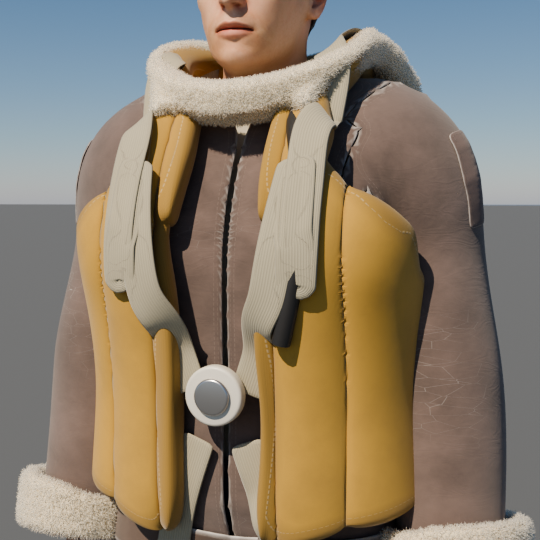
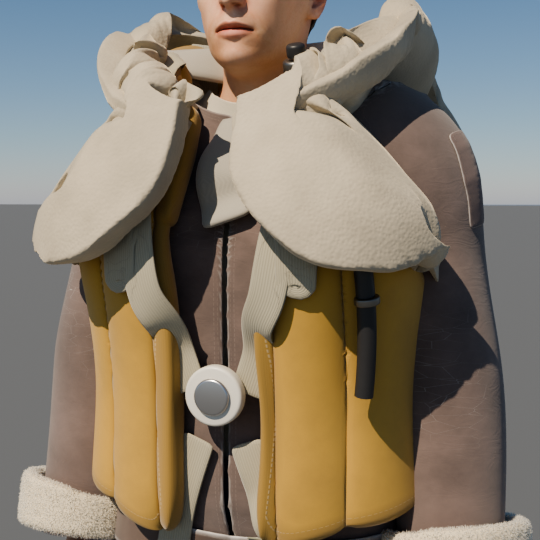
Lapel collar from an exact outline, shearling pile material, scarf, hose clamps, cartridge holder, map case (run 009 steps 6-7)
Fixes a latent triangulation bug: flat pieces kept triangles from the convex hull of
their outline, which bridged the collar's V opening.

Claude-Session: https://claude.ai/code/session_01CDvtC8YtMDTCkqUDhevinG

diff --git a/recipes/garments.py b/recipes/garments.py
@@ -287,7 +287,8 @@ def leg_patch(name, s=(0.18, 0.85), theta=(-35.0, 50.0), side="both", ease=0.012
     out_v, _, out_f, orig, _, _ = geo.delaunay_2d_cdt([tuple(q) for q in points],
                                                      [(i, (i + 1) % n) for i in range(n)], [], 1, 1e-7)
     out_v = np.array([tuple(v) for v in out_v])
-    faces = [tuple(f) for f in out_f if len(f) == 3]
+    faces = [tuple(f) for f in out_f if len(f) == 3
+             and _inside_polygon(out_v[list(f)].mean(axis=0)[None, :], outline)[0]]
     pieces = []
     for side_left in {"L": (True,), "R": (False,), "both": (True, False)}[side]:
         tri, weight = _wrap(out_v, side_left, limb)
@@ -373,6 +374,123 @@ def band(name="cuff", limb="arm", start=1.72, end=1.97, ease=0.04, thickness=0.0
     return _garment(name, TIGHTS, field, ease, thickness,
                     material or materials.plain("Shearling", (0.62, 0.55, 0.42), 0.95),
                     skin_margin=None, smooth_shell=smooth_shell, cut=cut)
+
+
+TORSO_RADIUS = 0.15   # metres per radian round the torso (about the upper-chest radius)
+TORSO_HEIGHT = 0.55   # metres per unit of torso height h (hip joint to base of neck)
+
+
+def _torso_chart():
+    """Torso and neck of the tights shell as flat triangles: x = angle round the body from
+    the centre back (so the seam of the chart falls at the centre front), y = height."""
+    if "torso" in _LEG_CHART:
+        return _LEG_CHART["torso"]
+    c = _body_coordinates()
+    vb = c["vb"]
+    bones = rig.read_rig("default")
+    neck = np.array(rig._position(bones["neck01"]["head"], vb))
+    psi = np.degrees(np.arctan2(vb[:, 0], vb[:, 1] - neck[1]))          # 0 back, +-180 front
+    flat = np.stack([np.radians(psi) * TORSO_RADIUS, c["h"] * TORSO_HEIGHT], axis=1)
+    lo, hi = TIGHTS
+    tris = []
+    for f in human.base_mesh()[2]:
+        if not all(lo <= v <= hi and c["part"][v] in ("torso", "neck") for v in f):
+            continue
+        for t in ((f[0], f[1], f[2]), (f[0], f[2], f[3])) if len(f) == 4 else ((f[0], f[1], f[2]),):
+            if np.ptp(psi[list(t)]) < 180.0:
+                tris.append(t)
+    _LEG_CHART["torso"] = (flat, np.array(tris), psi)
+    return _LEG_CHART["torso"]
+
+
+def _smooth_outline(points, rounds=3):
+    """Round off the corners of a closed outline (Chaikin corner cutting)."""
+    pts = np.asarray(points, dtype=float)
+    for _ in range(rounds):
+        nxt = np.roll(pts, -1, axis=0)
+        pts = np.stack([0.75 * pts + 0.25 * nxt, 0.25 * pts + 0.75 * nxt], axis=1).reshape(-1, 2)
+    return pts
+
+
+def _resample(outline, step):
+    out = []
+    for p_, q in zip(outline, np.roll(outline, -1, axis=0)):
+        n = max(1, int(np.ceil(np.linalg.norm(q - p_) / step)))
+        out.extend(p_ + (q - p_) * k / n for k in range(n))
+    return np.array(out)
+
+
+def torso_patch(name, outline, ease, thickness, material, smooth_shell=0, step=0.009):
+    """A flat piece drawn as an exact outline on the torso and wrapped onto it.
+    outline: closed list of (angle from the centre back in degrees, torso height h)."""
+    from mathutils import geometry as geo
+    flat, tris, _ = _torso_chart()
+    pts = np.array([(np.radians(a_) * TORSO_RADIUS, h_ * TORSO_HEIGHT) for a_, h_ in outline])
+    pts = _resample(_smooth_outline(pts), step)
+    lo, hi = pts.min(axis=0), pts.max(axis=0)
+    gx = np.arange(lo[0] + step, hi[0], step)
+    gy = np.arange(lo[1] + step, hi[1], step * 0.866)
+    grid = np.array([(x + (step * 0.5 if j % 2 else 0.0), y) for j, y in enumerate(gy) for x in gx])
+    grid = grid[_inside_polygon(grid, pts)] if len(grid) else grid
+    grid = grid[[np.min(np.linalg.norm(pts - g, axis=1)) > step * 0.55 for g in grid]] if len(grid) else grid
+    allp = np.concatenate([pts, grid])
+    n = len(pts)
+    out_v, _, out_f, _, _, _ = geo.delaunay_2d_cdt([tuple(q) for q in allp],
+                                                  [(i, (i + 1) % n) for i in range(n)], [], 1, 1e-7)
+    out_v = np.array([tuple(v) for v in out_v])
+    # Keep only triangles inside the outline. The triangulation also fills the outline's
+    # convex hull; for the collar that bridged the V opening (a "bib") and, once smoothed,
+    # blew up into large flat planes.
+    faces = [tuple(f) for f in out_f if len(f) == 3
+             and _inside_polygon(out_v[list(f)].mean(axis=0)[None, :], pts)[0]]
+    # wrap: containing chart triangle, or the nearest one
+    A, B, C = flat[tris[:, 0]], flat[tris[:, 1]], flat[tris[:, 2]]
+    v0, v1 = B - A, C - A
+    den = v0[:, 0] * v1[:, 1] - v1[:, 0] * v0[:, 1]
+    ok = np.abs(den) > 1e-10
+    tris, A, v0, v1, den = tris[ok], A[ok], v0[ok], v1[ok], den[ok]
+    tri_out, w_out = [], []
+    for p_ in out_v:
+        d = p_ - A
+        u = (d[:, 0] * v1[:, 1] - v1[:, 0] * d[:, 1]) / den
+        v = (v0[:, 0] * d[:, 1] - d[:, 0] * v0[:, 1]) / den
+        best = int(np.argmax(np.minimum.reduce([u, v, 1.0 - u - v])))
+        w = np.clip(np.array([1.0 - u[best] - v[best], u[best], v[best]]), 0.0, None)
+        tri_out.append(tris[best]); w_out.append(w / w.sum())
+    # outward normals: the chart runs right-handed when seen from outside on the back
+    faces = [tuple(reversed(f)) for f in faces]
+    spec = _garment(name, TIGHTS, None, ease, thickness, material, skin_margin=None, smooth_shell=smooth_shell)
+    spec["explicit"] = {"faces": faces, "tri": np.array(tri_out), "weight": np.array(w_out),
+                        "uv": out_v / materials.METRES_PER_UV}
+    return spec
+
+
+def lapel_collar(name="collar", tips=0.64, wings=0.80, back=0.86, neckline=1.02, throat=0.94,
+                 tip_angle=150.0, ease=0.105, roll=0.02, thickness=0.036, material=None,
+                 smooth_shell=0, soften=8):
+    """A large turned-down shearling collar: a roll behind the neck, wings lying over the
+    shoulders, and two rounded lapel points on the chest with a V opening between them.
+
+    Heights are torso heights (0 hip joint, 1 base of neck): `tips` how far down the lapel
+    points reach, `wings` the lower edge over the shoulders, `back` at the centre back,
+    `neckline` the top edge, `throat` where the two lapels meet at the front. tip_angle:
+    how far round from the centre back the lapel points sit (180 is the centre front).
+    ease: height of the outer edge above the skin (must clear a vest). roll: extra height
+    toward the neck, so the collar curls up there.
+    (First collar: a band of equal depth, read as a fur tube. Second: cut from the body
+    mesh with no V opening, gave a ragged bib.)"""
+    right = [(0.0, back), (50.0, back - 0.02), (95.0, wings), (125.0, wings - 0.05),
+             (tip_angle, tips), (tip_angle + 12.0, tips + 0.04), (172.0, throat), (178.0, neckline - 0.03),
+             (150.0, neckline), (90.0, neckline + 0.01), (0.0, neckline + 0.01)]
+    outline = right[:-1] + [(-a_, h_) for a_, h_ in reversed(right[1:-1])]
+    c = _body_coordinates()
+    lift = ease + roll * np.clip((c["h"] - (neckline - 0.16)) / 0.14, 0.0, 1.0)
+    spec = torso_patch(name, outline, lift, thickness, material or materials.shearling(),
+                       smooth_shell=smooth_shell)
+    # Relax the crumpling where the neck shell bends sharply, with the edge held still.
+    # (Plain smoothing, tried first, pulled the edge in unevenly and left it ragged.)
+    spec["relax"] = soften
+    return spec
 
 
 def collar(name="collar", low=0.88, high=1.06, ease=0.022, thickness=0.02, material=None):
@@ -723,6 +841,23 @@ def build(scene, base_verts, garment, name, parent=None):
         # vertex get the same push outward.
         n = _vertex_normals_welded(verts, faces)
     verts = verts + ease * n
+    if garment.get("relax"):
+        # Smooth the piece with its outline held still. Done here rather than with
+        # Blender's Laplacian Smooth modifier, which blew this mesh apart into spikes.
+        edges = {(min(a, b), max(a, b)) for f in faces for a, b in zip(f, f[1:] + f[:1])}
+        count = {}
+        for f in faces:
+            for a, b in zip(f, f[1:] + f[:1]):
+                key = (min(a, b), max(a, b)); count[key] = count.get(key, 0) + 1
+        rim = {v for k, c in count.items() if c == 1 for v in k}
+        e = np.array(sorted(edges))
+        deg = np.zeros(len(verts)); np.add.at(deg, e[:, 0], 1.0); np.add.at(deg, e[:, 1], 1.0)
+        free = np.array([i not in rim and deg[i] > 0 for i in range(len(verts))])
+        for k in range(2 * garment["relax"]):
+            mean = np.zeros_like(verts)
+            np.add.at(mean, e[:, 0], verts[e[:, 1]]); np.add.at(mean, e[:, 1], verts[e[:, 0]])
+            step = 0.5 if k % 2 == 0 else -0.53
+            verts[free] += step * (mean[free] / deg[free, None] - verts[free])
     if nudge is not None:
         verts = verts + nudge
 

diff --git a/runs/009-outfit-detail/detail.py b/runs/009-outfit-detail/detail.py
@@ -63,7 +63,10 @@ strap = garments.leg_patch("shoulder_strap", limb="arm", s=(-0.02, 0.40), theta=
                                          grime=0.4, grime_color=(0.07, 0.05, 0.045), edge_wear=0.7))
 cuffs = garments.band(name="cuffs", limb="arm", start=1.70, end=1.97, ease=JACKET_EASE + 0.016, thickness=0.02,
                       smooth_shell=SMOOTH, material=materials.plain("Shearling", (0.62, 0.55, 0.42), 0.95))
-collar = garments.collar(low=0.88, high=1.07, ease=0.06, thickness=0.035)
+# Shearling lapel collar lying over the vest (step 7). The first collar was a fur tube.
+collar = garments.lapel_collar(smooth_shell=SMOOTH,
+                               material=wear(materials.shearling(relief=0.45, clump=0.004), grime=0.35, grime_color=(0.32, 0.29, 0.24),
+                                             seams=True, seam_width=0.01, cavities=0.6))
 shirt = garments.top(name="shirt", sleeve=0.4, collar=0.99, hem=0.08, ease=0.004, smooth_shell=SMOOTH,
                      material=materials.fabric((0.62, 0.58, 0.48), on="garment"))
 
@@ -83,11 +86,13 @@ vest_obj.modifiers["Subdivision"].render_levels = 3      # resolution for the ch
 
 # shearling strands on collar and cuffs
 wool = materials.hair_fibre("Wool", (0.56, 0.50, 0.39), roughness=0.95, variation=0.25)
-for part_name, count in (("_collar", 120000), ("_cuffs", 50000)):
+# No strands on the collar: at this distance the clip's collar reads as smooth pile, and
+# strands made it look like a towel.
+for part_name, count, length in (("_cuffs", 50000, 0.004),):
     obj = next(o for o in pilot.children if o.name.endswith(part_name))
     v, f = hair.evaluated_mesh(obj)
     roots, normals = hair.sample_surface(v, f, count, seed=len(part_name))
-    hair.grow(scene, "Fur" + part_name, roots, normals, length=0.007, radius=0.00045, material=wool,
+    hair.grow(scene, "Fur" + part_name, roots, normals, length=length, radius=0.0004, material=wool,
               comb=(0.0, 0.0, -0.05), curl=0.45, steps=4, seed=2, length_jitter=0.25)
 
 # --- step 4: harness, release box, inflation hose, belt with cartridges ----------------
@@ -162,6 +167,66 @@ if STEP4:
         side = np.cross(n, (0.0, 0.0, 1.0)); side /= np.linalg.norm(side)
         straps.tube(scene, f"Cartridge {k}", [p - side * 0.032, p, p + side * 0.032], radius=0.0088,
                     material=casing, parent=pilot)
+
+# --- step 6: scarf, hose detail, cartridge holder, hip pouch ----------------------------
+if STEP4 and "--step5" not in sys.argv:
+    under = straps.surface([o for o in pilot.children if o.name.split("_", 1)[-1] in ("vest", "jacket", "trousers", "shirt")])
+    khaki = lambda n: wear(materials.fabric((0.30, 0.29, 0.20), name=n, thread=0.0014, on="object", sheen=0.25),
+                           grime=0.6, grime_color=(0.12, 0.11, 0.07), patches=0.55, seams=False, patch_scale=12.0)
+    # scarf: a soft band round the neck inside the collar, its end tucked down the front
+    scarf = wear(materials.fabric((0.40, 0.38, 0.33), name="Scarf", thread=0.0012, on="object", sheen=0.5),
+                 grime=0.4, grime_color=(0.2, 0.19, 0.16), seams=False)
+    neck_z = 1.535
+    ring = []
+    for ang in np.radians(np.arange(-170, 171, 12)):
+        d = np.array([np.sin(ang), -np.cos(ang), 0.0])
+        ring.append((-d * 0.5 + np.array([0.0, 0.0, neck_z]), d))
+    straps.strap(scene, "Scarf wrap", under, ring, width=0.06, thickness=0.012, material=scarf, lift=0.006,
+                 parent=pilot)
+    tail = [((0.0 + 0.012 * np.sin(k), -1.0, z), (0.0, 1.0, 0.0)) for k, z in enumerate(np.linspace(1.50, 1.33, 8))]
+    straps.strap(scene, "Scarf end", under, tail, width=0.07, thickness=0.012, material=scarf, lift=0.012,
+                 parent=pilot)
+    # hose: outside the shoulder strap, clamped to the vest, valve and mouthpiece at the top
+    for old in ("Inflation hose", "Hose valve"):          # replaces the step-4 hose, hidden behind the strap
+        bpy.data.objects.remove(bpy.data.objects[old], do_unlink=True)
+    hose_line = []
+    for z, x in ((1.14, 0.155), (1.22, 0.165), (1.31, 0.16), (1.39, 0.14), (1.45, 0.11), (1.48, 0.085)):
+        p_, n_ = straps.hit(bvh, (x, -1.0, z), (0.0, 1.0, 0.0), lift=0.03)
+        if p_ is not None:
+            hose_line.append(p_)
+    straps.tube(scene, "Inflation hose (outside strap)", hose_line, radius=0.011, material=rubber, parent=pilot)
+    clamp_metal = wear(materials.metal("Clamp", (0.25, 0.24, 0.22), 0.4), grime=0.4, seams=False,
+                       grime_color=(0.1, 0.09, 0.08))
+    for k in (1, 3):
+        a, b = np.array(hose_line[k]), np.array(hose_line[k + 1])
+        axis = (b - a) / np.linalg.norm(b - a)
+        straps.disc(scene, f"Hose clamp {k}", a + (b - a) * 0.3, axis, radius=0.0145, thickness=0.009,
+                    material=clamp_metal, bevel=0.002, parent=pilot)
+    top_end = np.array(hose_line[-1])
+    straps.disc(scene, "Hose valve body", top_end, (0.0, -0.4, 1.0), radius=0.017, thickness=0.024,
+                material=clamp_metal, parent=pilot)
+    straps.disc(scene, "Mouthpiece", top_end + np.array([0.0, -0.01, 0.024]), (0.0, -0.4, 1.0),
+                radius=0.011, thickness=0.016, material=rubber, parent=pilot)
+    # canvas holder behind the cartridge column, with two keeper straps over it
+    holder_top = BELT_Z + 0.04
+    straps.strap(scene, "Cartridge holder", under, [((0.075, -1.0, z), (0.0, 1.0, 0.0)) for z in
+                 np.linspace(holder_top, holder_top - 0.19, 10)], width=0.085, thickness=0.004,
+                 material=khaki("Holder canvas"), lift=0.006, parent=pilot)
+    for dx in (-0.024, 0.024):
+        straps.strap(scene, f"Cartridge keeper {dx:+.3f}", under, [((0.075 + dx, -1.0, z), (0.0, 1.0, 0.0)) for z in
+                     np.linspace(holder_top, holder_top - 0.19, 10)], width=0.012, thickness=0.003,
+                     material=khaki("Keeper canvas"), lift=0.030, parent=pilot)
+    # map case on the left hip, hanging from the belt on two short straps
+    case_at, case_n = straps.hit(under, (1.0, -0.02, 0.80), (-1.0, 0.0, 0.0), lift=0.004)
+    case = straps.box(scene, "Map case", case_at, case_n, (0.0, 0.0, 1.0), (0.17, 0.25, 0.05),
+                      material=khaki("Case canvas"), bevel=0.012, bulge=0.25, parent=pilot)
+    straps.box(scene, "Map case flap", case_at + np.array([0.0, 0.0, 0.085]) + case_n * 0.05,
+               case_n, (0.0, 0.0, 1.0), (0.175, 0.085, 0.008), material=khaki("Flap canvas"),
+               bevel=0.004, parent=pilot)
+    for dy in (-0.05, 0.05):
+        straps.tube(scene, f"Case strap {dy:+.2f}", [case_at + np.array([0.0, dy, 0.125]) + case_n * 0.02,
+                    case_at + np.array([0.0, dy, 0.18]) + case_n * 0.012], radius=0.006,
+                    material=khaki("Case strap"), parent=pilot)
 
 world.sky_world(scene, sun_elevation_deg=48.0, sun_rotation_deg=200.0, strength=0.035)
 bpy.ops.mesh.primitive_plane_add(size=400)

diff --git a/recipes/straps.py b/recipes/straps.py
@@ -156,3 +156,38 @@ def hit(bvh, origin, direction, lift=0.0):
     if np.dot(n, direction) > 0:
         n = -n
     return np.array(p) + n * lift, n
+
+
+def box(scene, name, centre, outward, up, size, material=None, bevel=0.01, parent=None,
+        bulge=0.0):
+    """A soft rectangular item (pouch, case, holster): size = (width, height, depth) in
+    metres, its back against the surface at `centre`, its front facing `outward`, its top
+    toward `up`. bevel rounds the corners; bulge puffs the front out a little."""
+    out = np.array(outward, dtype=float); out /= np.linalg.norm(out)
+    upv = np.array(up, dtype=float); upv -= out * np.dot(upv, out); upv /= np.linalg.norm(upv)
+    side = np.cross(upv, out)
+    w, h, d = size
+    bm = bmesh.new()
+    bmesh.ops.create_cube(bm, size=1.0)
+    bmesh.ops.subdivide_edges(bm, edges=bm.edges[:], cuts=3, use_grid_fill=True)
+    for v in bm.verts:
+        x, y, z = v.co
+        front = max(0.0, y)                        # local y = outward
+        puff = bulge * (1.0 - (2 * x) ** 2) * (1.0 - (2 * z) ** 2) * front * 2.0
+        v.co = tuple(np.array(centre) + side * x * w + upv * z * h + out * ((y + 0.5) * d + puff))
+    mesh = bpy.data.meshes.new(name)
+    bm.to_mesh(mesh)
+    bm.free()
+    mesh.shade_smooth()
+    if material is not None:
+        mesh.materials.append(material)
+    obj = bpy.data.objects.new(name, mesh)
+    scene.collection.objects.link(obj)
+    rounded = obj.modifiers.new("Rounded", "BEVEL")
+    rounded.width, rounded.segments = bevel, 3
+    smooth = obj.modifiers.new("Subdivision", "SUBSURF")
+    smooth.levels = smooth.render_levels = 1
+    if parent is not None:
+        obj.parent = parent
+        obj.matrix_parent_inverse = parent.matrix_world.inverted()
+    return obj

diff --git a/recipes/materials.py b/recipes/materials.py
@@ -567,3 +567,30 @@ def webbing(name="Webbing", color=(0.46, 0.43, 0.33), rib=0.0016):
     bsdf.inputs["Sheen Weight"].default_value = 0.3
     _bump(nodes, links, bsdf, ribs.outputs[0], strength=0.35, distance=0.0004)
     return mat
+
+
+def shearling(name="Shearling", color=(0.56, 0.50, 0.39), clump=0.005, on="object", relief=0.25):
+    """Sheepskin pile seen from a normal viewing distance: a dense, matte, velvety surface
+    with soft clumps, not individual hairs. Pair with very short strands for fuzz at the
+    silhouette. clump: clump size in metres."""
+    mat, nodes, links, bsdf = _new(name)
+    vec = _coords(nodes, links, uv=(on == "garment"))
+    k = METRES_PER_UV if on == "garment" else 1.0
+    cells = nodes.new("ShaderNodeTexVoronoi")
+    cells.feature = "SMOOTH_F1"
+    cells.inputs["Scale"].default_value = k / clump
+    cells.inputs["Smoothness"].default_value = 0.8
+    links.new(vec, cells.inputs["Vector"])
+    shade = nodes.new("ShaderNodeTexNoise")
+    shade.inputs["Scale"].default_value = 18.0 * k
+    shade.inputs["Detail"].default_value = 5.0
+    links.new(vec, shade.inputs["Vector"])
+    links.new(_ramp(nodes, links, shade.outputs["Fac"], tuple(c * 0.78 for c in color), color, 0.3, 0.75),
+              bsdf.inputs["Base Color"])
+    bsdf.inputs["Roughness"].default_value = 0.95
+    bsdf.inputs["Specular IOR Level"].default_value = 0.15
+    bsdf.inputs["Sheen Weight"].default_value = 1.0
+    bsdf.inputs["Sheen Roughness"].default_value = 0.45
+    bsdf.inputs["Sheen Tint"].default_value = (*color, 1.0)
+    _bump(nodes, links, bsdf, cells.outputs["Distance"], strength=relief, distance=0.0012)
+    return mat
